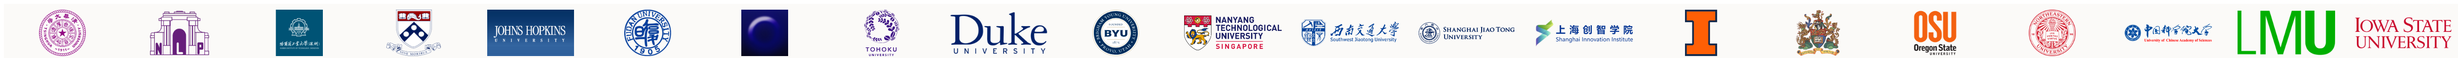
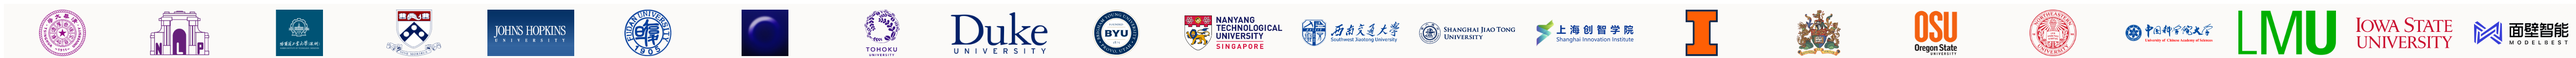
update team

Changed region(s): [[0.0, 0.15, 1.0, 0.975]]

diff --git a/page/team-data.js b/page/team-data.js
@@ -60,6 +60,7 @@ const INSTITUTIONS = Array.from(new Set(TEAM.flatMap(person =>
    below assigns them a cell like any other entry. */
 const INSTITUTION_INSERTS = [
     { after: 'Tsinghua University', name: 'THUNLP' },
+    { after: 'THUNLP', name: 'ModelBest' },
     { after: 'Brigham Young University', name: 'Nanyang Technological University' },
     { after: 'Southwest Jiaotong University', name: 'Shanghai Jiao Tong University' }
 ];
@@ -91,5 +92,6 @@ const INSTITUTION_LOGOS = {
     'Northeastern University': 17,
     'University of Chinese Academy of Sciences': 18,
     'LMU Munich': 19,
-    'Iowa State University': 20
+    'Iowa State University': 20,
+    'ModelBest': 21
 };

diff --git a/page/styles.css b/page/styles.css
@@ -4252,8 +4252,8 @@ body.team-page .guide-main { max-width: 1160px; padding: 7.5rem 3rem 7rem; }
     width: 120px;
     height: 60px;
     flex: none;
-    background-image: url("images/institutions.png?v=8");
-    background-size: 2520px 60px;
+    background-image: url("images/institutions.png?v=9");
+    background-size: 2640px 60px;
     background-repeat: no-repeat;
     background-position: calc(var(--cell, 0) * -120px) 0;
 }
